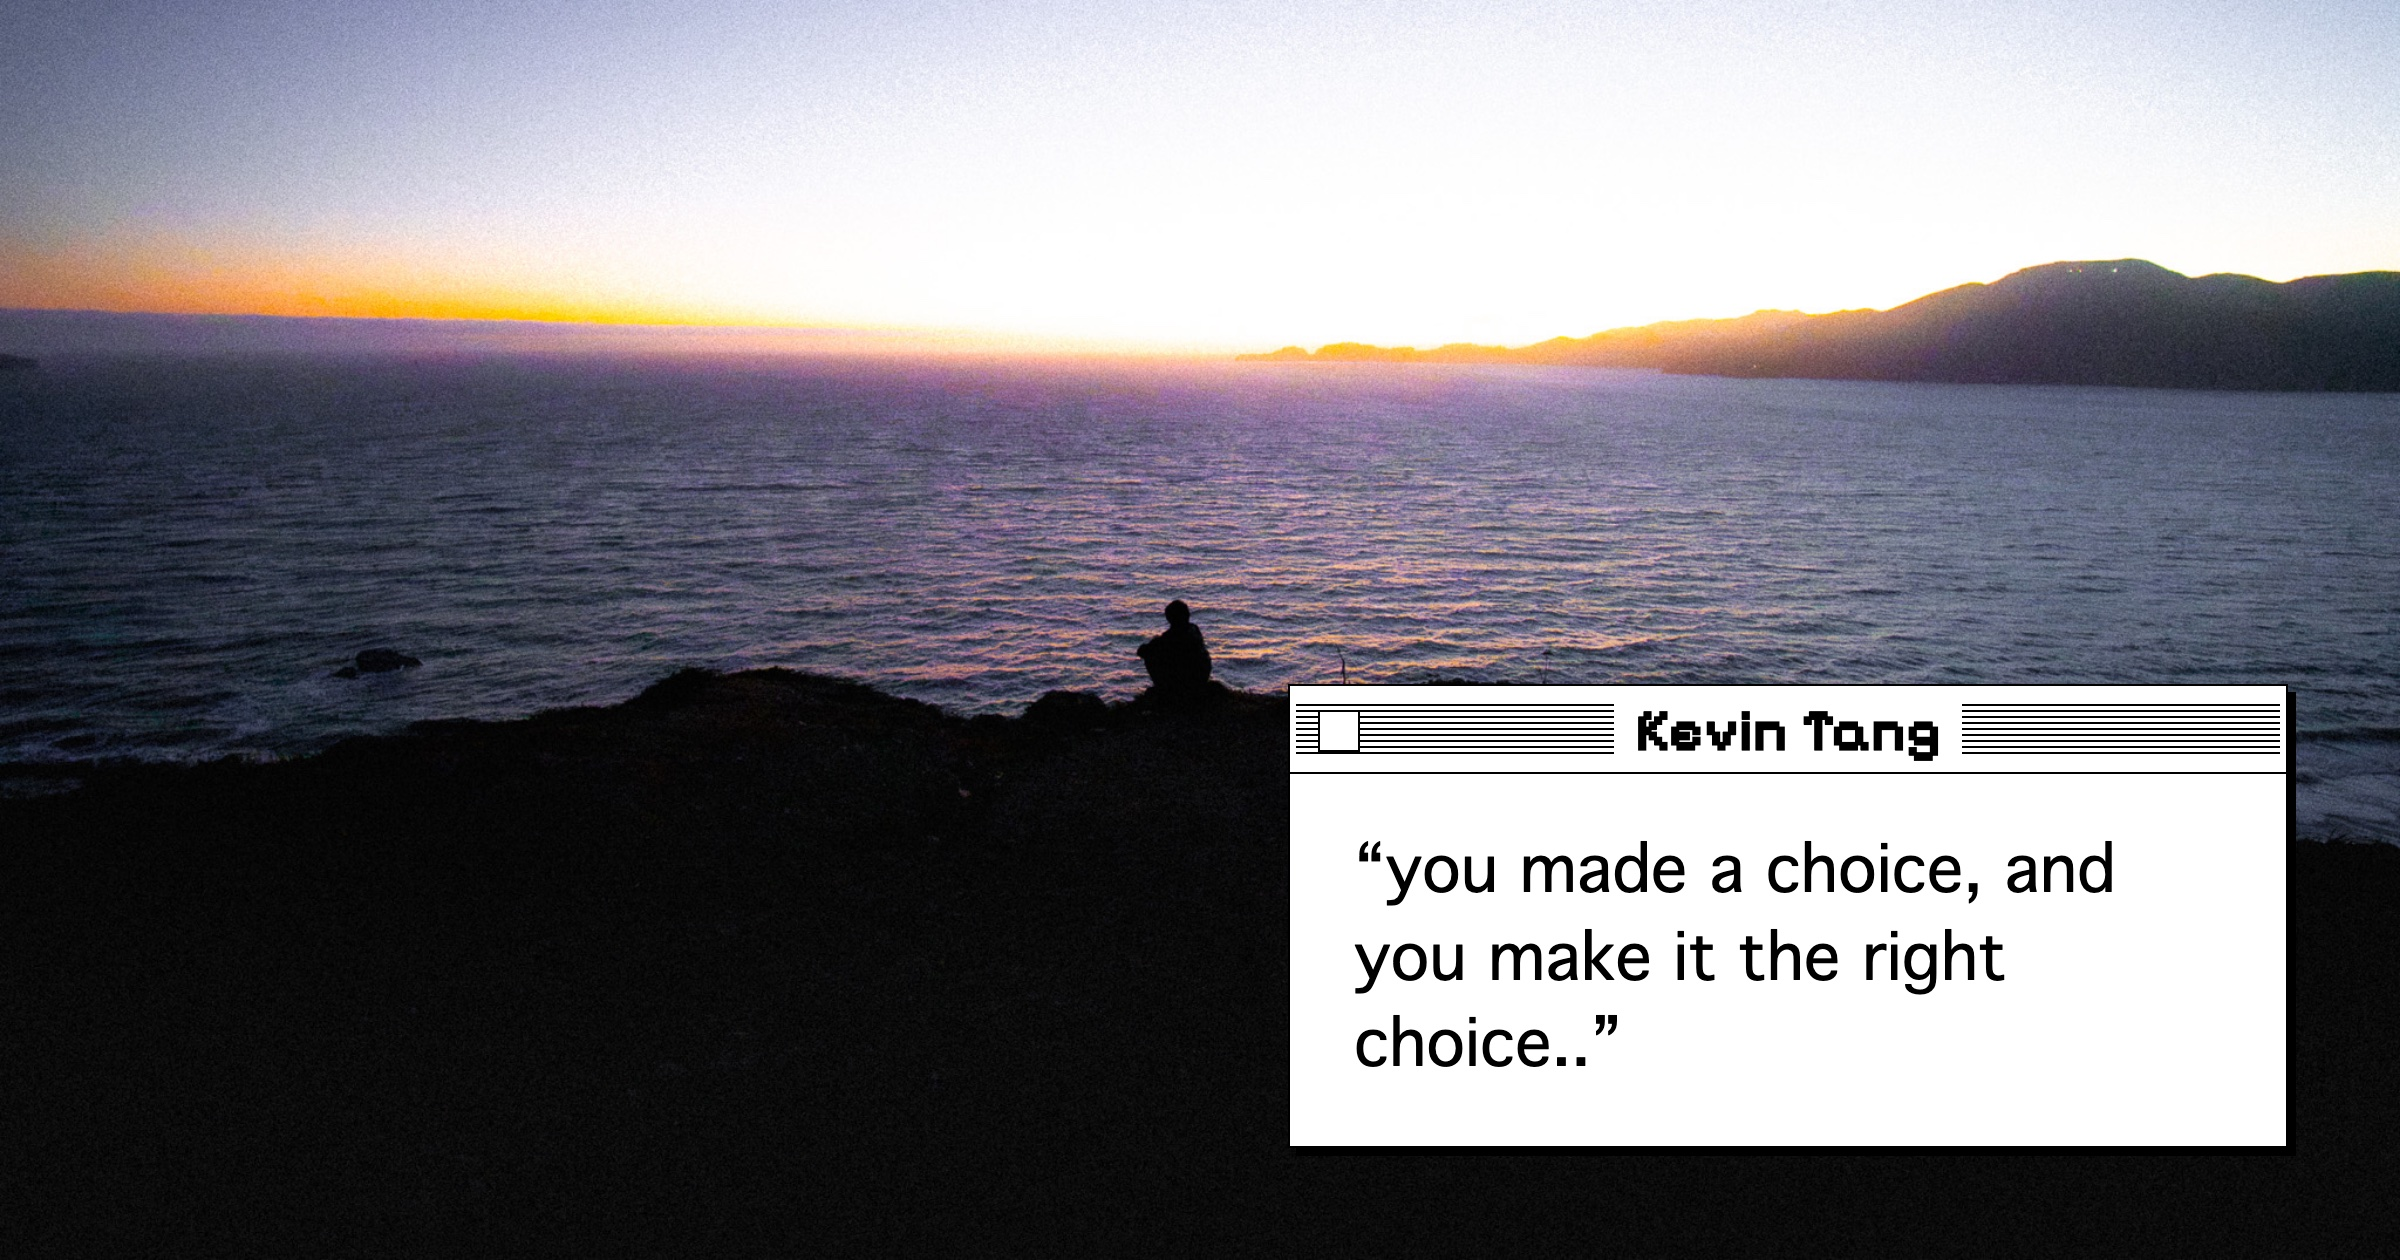
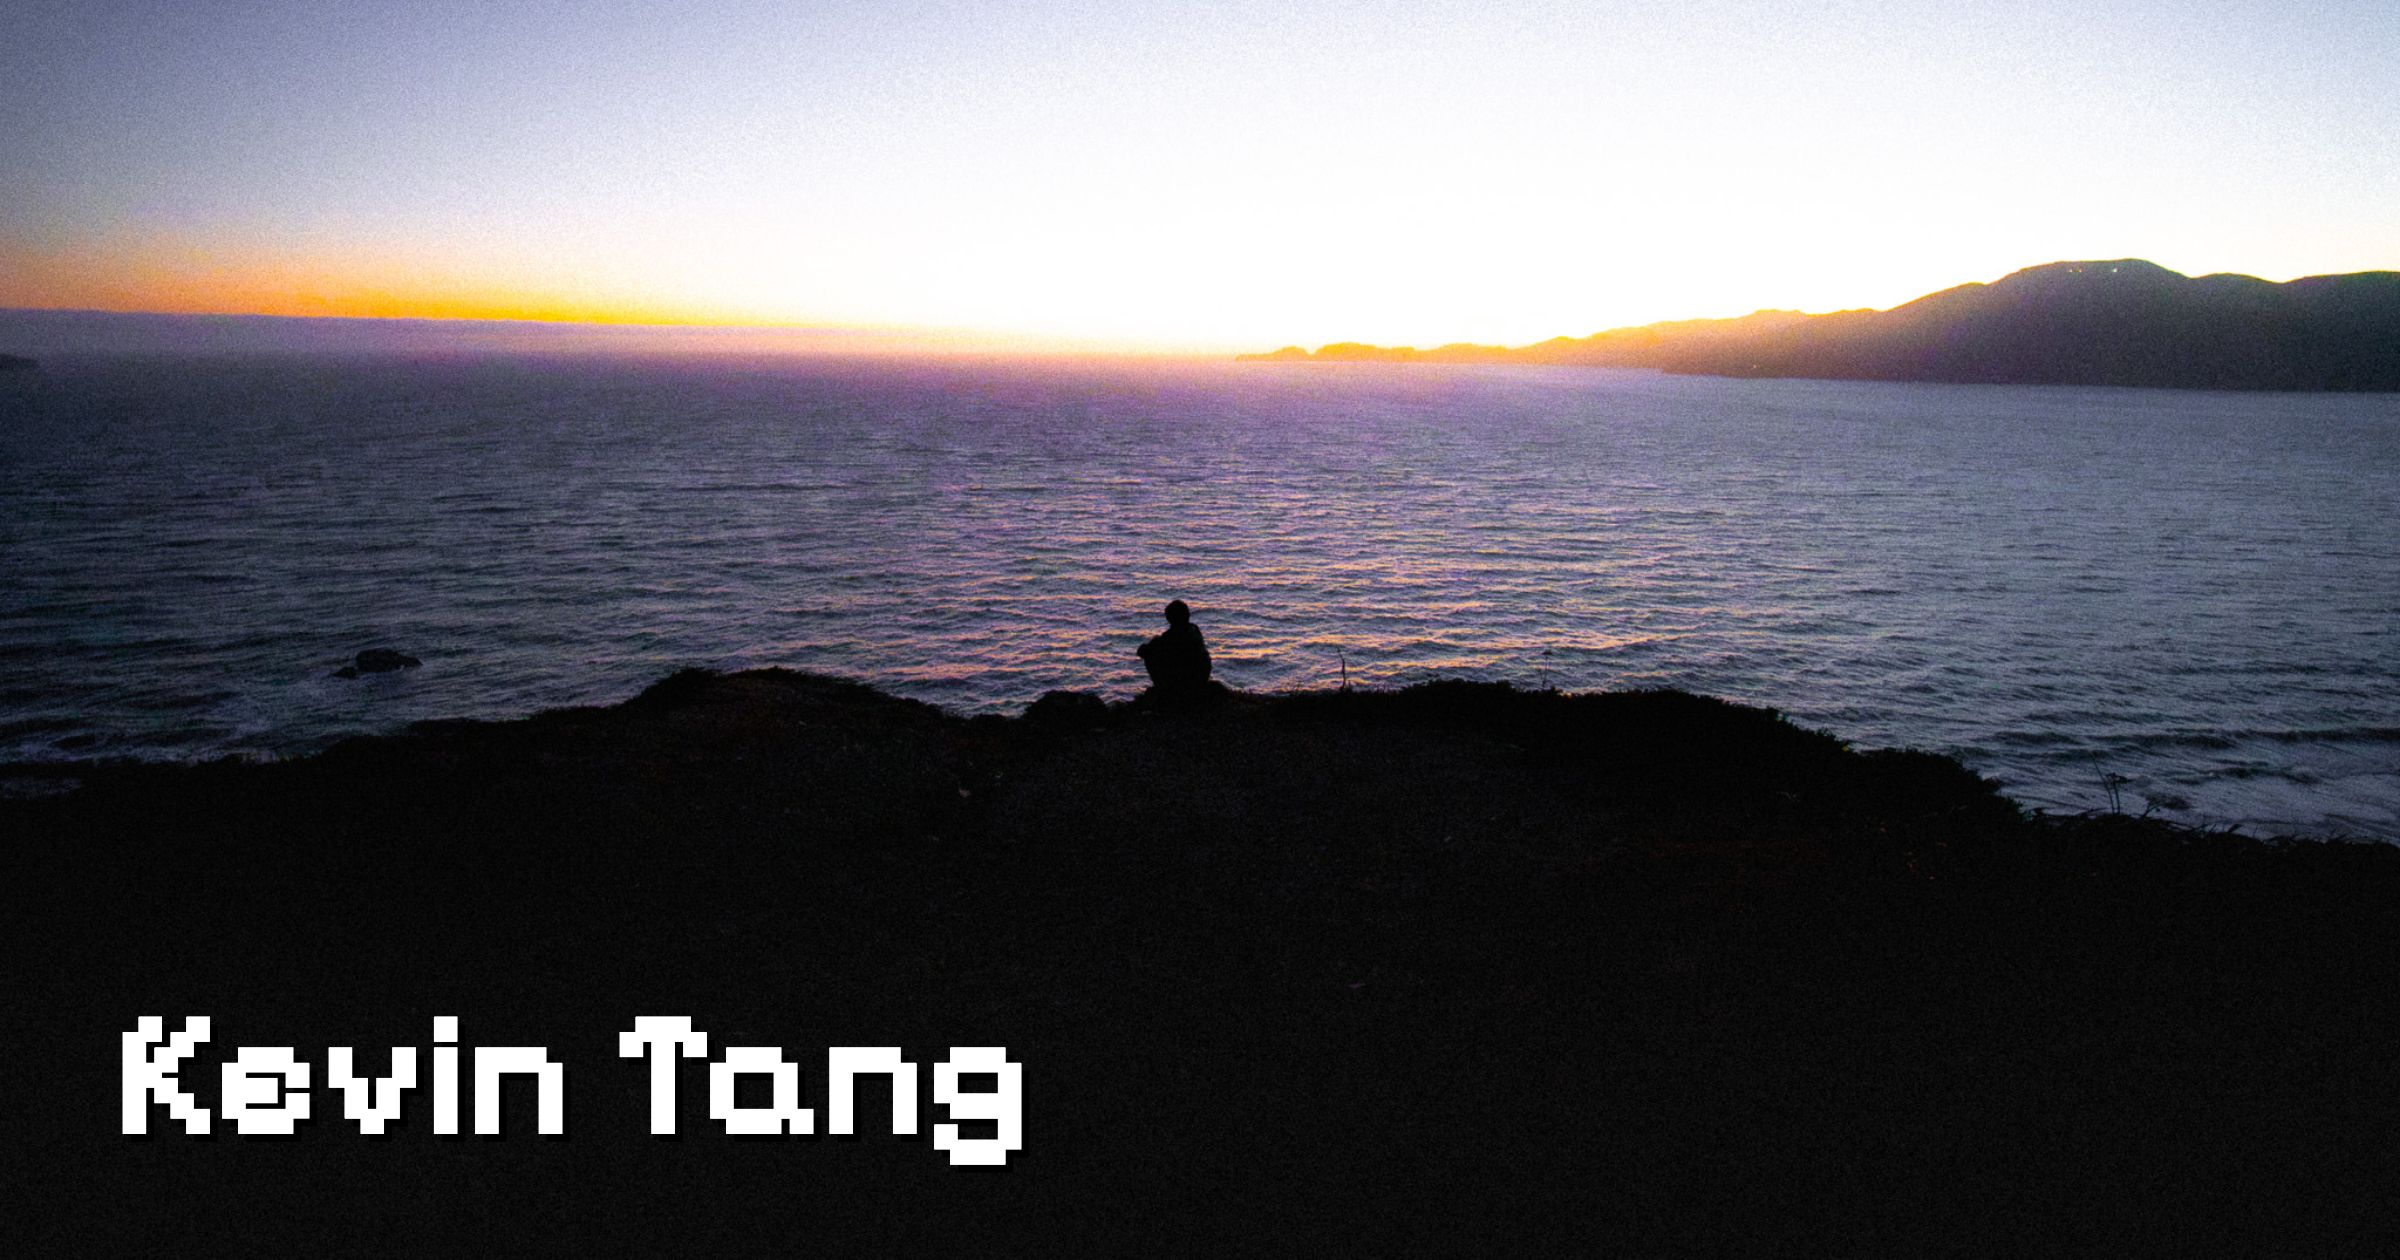
feat: new share card with the name on the sunset, no quote
Replace the link-preview picture with the sunset photo carrying "Kevin
Tang" in white pixel type at the lower left; the quote window is gone.
og:image and twitter:image now point at /preview.jpg?v=2 so platforms
that cached the old picture by URL fetch the new one, and both alt texts
describe this picture. A vitest file pins the contract from the real
files: one URL in both tags, a JPEG in public/ matching the declared
size under 5 MB, identical alt texts under 420 characters, a sha256 per
?v= so a changed picture needs a new version, and a large-card shape.

Changed region(s): [[0.5312, 0.5262, 0.9688, 0.9286], [0.0312, 0.8048, 0.4375, 0.9286]]

diff --git a/src/share-card.test.js b/src/share-card.test.js
@@ -1,0 +1,86 @@
+// @vitest-environment node
+import { readFileSync, statSync } from 'node:fs';
+import { createHash } from 'node:crypto';
+import { imageSize } from 'image-size';
+import { JSDOM } from 'jsdom';
+import { describe, it, expect } from 'vitest';
+
+// The share card is what X, iMessage, LinkedIn and friends show for a link to the site.
+// index.html declares it twice (Open Graph and Twitter) and the picture lives in public/.
+// Everything here is read from the real files, so a stale width, a renamed picture, a
+// mismatched alt text or a card over X's 5 MB limit fails before it ships.
+const root = new URL('../', import.meta.url);
+const head = new JSDOM(readFileSync(new URL('index.html', root), 'utf8')).window.document.head;
+
+// Each key must appear exactly once in <head>, as either property= (Open Graph) or name= (Twitter).
+// A real DOM lookup survives attribute reordering, entities and commented-out tags, which a regex would not.
+const meta = (key) => {
+  const tags = head.querySelectorAll(`meta[property="${key}"], meta[name="${key}"]`);
+  expect(tags, `${key} must appear exactly once in <head>`).toHaveLength(1);
+  return tags[0].getAttribute('content');
+};
+
+describe('share card metadata in index.html', () => {
+  it('points Open Graph and Twitter at the same absolute JPEG URL on the www host', () => {
+    expect(meta('og:image')).toBe(meta('twitter:image'));
+    expect(meta('og:image')).toMatch(/^https:\/\/www\.jpegkevin\.com\/[^?]+\.jpg(\?v=\d+)?$/);
+  });
+
+  it('names a JPEG in public/ whose pixel size matches the declared width and height, under 5 MB', () => {
+    const { pathname } = new URL(meta('og:image'));
+    const file = new URL(`public${pathname}`, root);
+    const { width, height, type } = imageSize(readFileSync(file));
+    expect(type).toBe('jpg');
+    expect(String(width)).toBe(meta('og:image:width'));
+    expect(String(height)).toBe(meta('og:image:height'));
+    expect(statSync(file).size).toBeLessThan(5 * 1024 * 1024);
+  });
+
+  it('describes the picture once, the same way, for both card formats', () => {
+    const alt = meta('og:image:alt');
+    expect(alt).toBeTruthy();
+    expect(meta('twitter:image:alt')).toBe(alt);
+    expect(alt.length).toBeLessThanOrEqual(420); // X drops alt text longer than this
+  });
+
+  // Added by the /ship coverage audit (Claude Fable 5.1), 2026-10-16: two guards on the picture itself.
+  const picture = () => readFileSync(new URL(`public${new URL(meta('og:image')).pathname}`, root));
+
+  // ?v= on the image URL -> sha256 of public/preview.jpg as shipped at that version
+  // (regenerate with: shasum -a 256 public/preview.jpg). A new picture gets a new version and a new row.
+  const SHIPPED_CARDS = {
[1 lines of base64/hex data omitted]
+  };
+
+  // Value: protects=crawlers (X, iMessage, LinkedIn, Slack) refetch the card when the picture changes,
+  //   because the image URL's ?v= changes with it;
+  // fails_when=public/preview.jpg's bytes change while og:image still says ?v=2, or ?v= is bumped without
+  //   recording the picture that shipped under it;
+  // why_new=the tests above accept any ?v=\d+ and any picture whose size matches, so the old card behind a
+  //   stale URL (the very thing ?v=2 fixes) passes them;
+  // seam=none;
+  // no_claim=green does not prove the CDN or any crawler cache was actually refreshed, nor that the picture
+  //   looks right; it only pins the committed bytes to the committed version.
+  it('bumps ?v= on the image URL whenever the picture itself changes', () => {
+    const version = new URL(meta('og:image')).searchParams.get('v');
+    expect(version, 'og:image needs a ?v= so crawlers refetch a changed card').toBeTruthy();
+    expect(SHIPPED_CARDS[version], `?v=${version} has no recorded picture; add its sha256 to SHIPPED_CARDS`).toBeDefined();
+    const hash = createHash('sha256').update(picture()).digest('hex');
+    expect(hash, `public/preview.jpg no longer matches ?v=${version}; bump ?v= in index.html and record the new sha256`).toBe(SHIPPED_CARDS[version]);
+  });
+
+  // Value: protects=the card shows whole, name included, as a large image: between Open Graph's 1.91:1 and
+  //   X's 2:1, at least 1200 px wide;
+  // fails_when=a 3:2 photo export or a small render replaces preview.jpg, even with og:image:width/height
+  //   updated to match it;
+  // why_new=the size test above only checks declared == actual, so any shape or size passes it;
+  // seam=none;
+  // no_claim=green does not prove how each platform crops or that the name sits inside its safe area; the
+  //   bounds come from the platforms' published guidance, not from rendering.
+  it('keeps the picture at large-card shape: 1.9:1 to 2:1 and at least 1200 px wide', () => {
+    const { width, height } = imageSize(picture());
+    expect(width).toBeGreaterThanOrEqual(1200);
+    expect(width / height).toBeGreaterThanOrEqual(1.9);
+    expect(width / height).toBeLessThanOrEqual(2);
+  });
+});

diff --git a/index.html b/index.html
@@ -16,15 +16,15 @@
     <meta property="og:url" content="https://www.jpegkevin.com/" />
     <meta property="og:title" content="Kevin Tang" />
     <meta property="og:description" content="A bit about me." />
-    <meta property="og:image" content="https://www.jpegkevin.com/preview.jpg" />
+    <meta property="og:image" content="https://www.jpegkevin.com/preview.jpg?v=2" />
     <meta property="og:image:width" content="2400" />
     <meta property="og:image:height" content="1260" />
-    <meta property="og:image:alt" content="A sunset over the sea with someone sitting on the headland, and a small Kevin Tang window reading: you made a choice, and you make it the right choice.." />
+    <meta property="og:image:alt" content="A sunset over the sea with someone sitting on the headland, and the name Kevin Tang in white pixel letters at the lower left." />
     <meta name="twitter:card" content="summary_large_image" />
     <meta name="twitter:title" content="Kevin Tang" />
     <meta name="twitter:description" content="A bit about me." />
-    <meta name="twitter:image" content="https://www.jpegkevin.com/preview.jpg" />
-    <meta name="twitter:image:alt" content="A sunset over the sea with someone sitting on the headland, and a small Kevin Tang window reading: you made a choice, and you make it the right choice.." />
+    <meta name="twitter:image" content="https://www.jpegkevin.com/preview.jpg?v=2" />
+    <meta name="twitter:image:alt" content="A sunset over the sea with someone sitting on the headland, and the name Kevin Tang in white pixel letters at the lower left." />
   </head>
   <body>
     <div id="root"></div>
